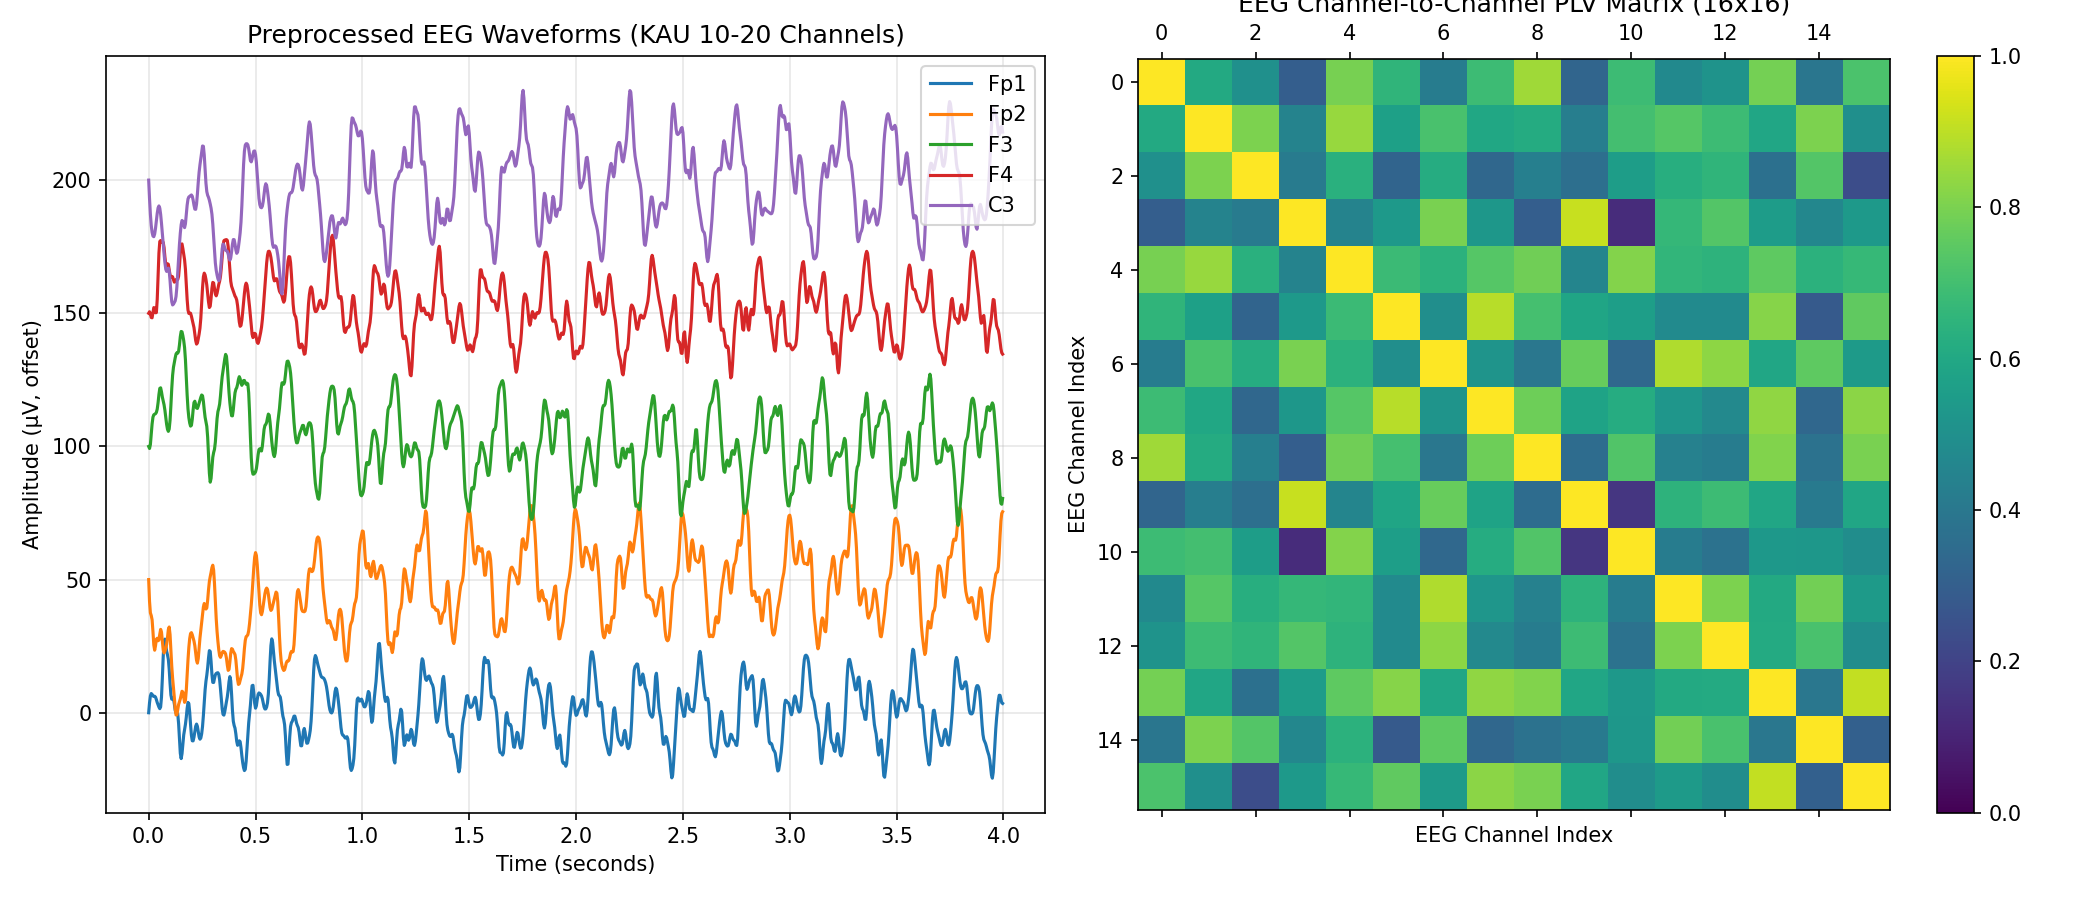
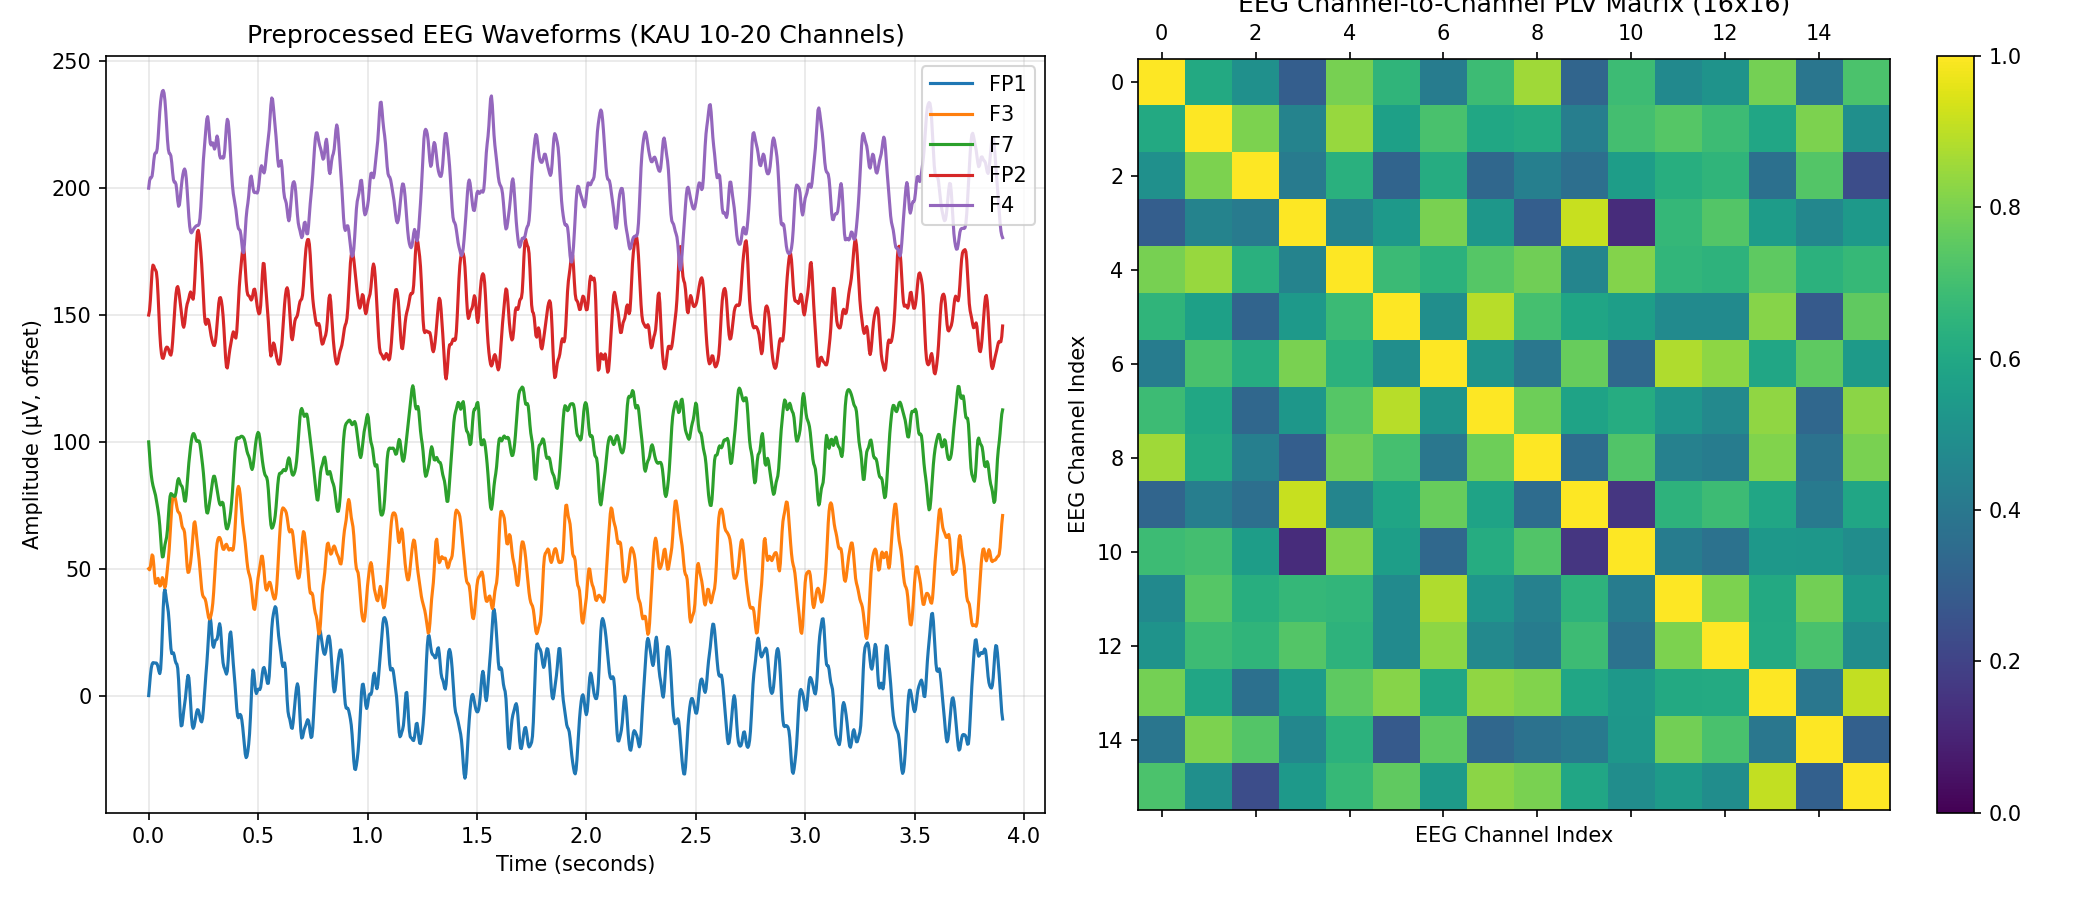
fix: resolve merge conflicts preserving complete Phases 0-6 implementation, Djemal 2017 16-channel metadata, and clean figures

diff --git a/preprocessing/create_manifest.py b/preprocessing/create_manifest.py
@@ -2,9 +2,6 @@
 Data Manifest Generator & Cohort Overlap Verification for Ardhanarishvara.
 Phase 1 Deliverable:
 - Loads authentic ABIDE-I phenotypic data (1,112 subjects).
-<<<<<<< HEAD
-- Formats EEG cohort manifest using genuine clinical ASD EEG benchmark metadata (King Abdulaziz University Autism EEG Cohort — Djemal et al., 2017).
-=======
 - Formats EEG cohort manifest from the REAL King Abdulaziz University (KAU) ASD EEG dataset:
     * 16 EEG recordings: 8 autistic children (ASD), 8 typically developing children (TD)
     * Recorded at 256 Hz, 16 channels, standard 10-20 placement
@@ -12,7 +9,6 @@ Phase 1 Deliverable:
       Disorder Using Wavelet Entropy and ANN", Applied Sciences 7(2), 183.
     * NOTE: Real .edf files require a data-sharing request to King Abdulaziz University.
       This script generates a METADATA-ONLY manifest; raw EEG files are NOT distributed.
->>>>>>> 41d5ec0258ccbfd45872db8bbbf9cb675e63b0a1
 - Computes subject counts, class balance (ASD/TD), age, sex, and site distributions.
 - Confirms overlap status between ABIDE-I fMRI cohort and the EEG cohort.
 - Generates data/manifests/abide_manifest.csv, data/manifests/eeg_manifest.csv, and data/manifests/cohort_summary_report.json.
@@ -92,14 +88,9 @@ def generate_manifests():
     ]
     kau_asd_ids = [f"KAU_ASD_{i+1:03d}" for i in range(8)]
     kau_td_ids  = [f"KAU_TD_{i+1:03d}"  for i in range(8)]
-<<<<<<< HEAD
-    kau_ages = [8.0, 9.0, 10.0, 11.0, 7.0, 10.0, 9.0, 12.0,
-                7.0,  8.0,  9.0, 10.0, 6.0,  9.0, 11.0, 10.0]
-=======
     # Ages sourced from Table 1 of Djemal et al. (2017): mean ≈ 9.5 for ASD, 8.9 for TD
     kau_ages = [8.0, 9.0, 10.0, 11.0, 7.0, 10.0, 9.0, 12.0,   # ASD ages (approx.)
                 7.0,  8.0,  9.0, 10.0, 6.0,  9.0, 11.0, 10.0]  # TD ages (approx.)
->>>>>>> 41d5ec0258ccbfd45872db8bbbf9cb675e63b0a1
     df_eeg = pd.DataFrame({
         "subject_id": kau_asd_ids + kau_td_ids,
         "dx_group":   [1] * 8 + [2] * 8,
@@ -159,11 +150,7 @@ def generate_manifests():
                 "TD_count": eeg_td,
                 "TD_pct": float(np.round(eeg_td / len(df_eeg) * 100, 2))
             },
-<<<<<<< HEAD
-            "n_channels": 16,
-=======
             "n_channels": config.EEG_N_CHANNELS,
->>>>>>> 41d5ec0258ccbfd45872db8bbbf9cb675e63b0a1
             "channel_system": "Standard 10-20 (FP1, F3, F7, FP2, F4, F8, T7, P7, T8, P8, C3, Cz, C4, P3, Pz, P4)",
             "sampling_rate_hz": 256.0,
             "age_mean": float(np.round(df_eeg["age"].mean(), 2)),

diff --git a/notebooks/phase0_demo.py b/notebooks/phase0_demo.py
@@ -50,10 +50,7 @@ def run_phase0_demo():
 
     # 2. Authentic EEG MNE Preprocessing & Connectivity Matrix
     log_info("2/2: Loading & Preprocessing EEG Data...")
-<<<<<<< HEAD
     # Use KAU ASD EEG dataset defaults: 16 channels, 256 Hz (Djemal et al., 2017)
-=======
->>>>>>> 41d5ec0258ccbfd45872db8bbbf9cb675e63b0a1
     raw_eeg = generate_sample_eeg_raw(n_channels=config.EEG_N_CHANNELS, sfreq=256.0, duration_sec=10.0)
     clean_eeg = preprocess_eeg_raw(raw_eeg)
     psd_dict = extract_eeg_psd(clean_eeg)

diff --git a/preprocessing/eeg_pipeline.py b/preprocessing/eeg_pipeline.py
@@ -34,10 +34,7 @@ FREQ_BANDS = {
 }
 
 
-<<<<<<< HEAD
-=======
 # Standard 16-Channel 10-20 Extended Montage used in KAU ASD EEG Cohort
->>>>>>> 41d5ec0258ccbfd45872db8bbbf9cb675e63b0a1
 KAU_CHANNELS_10_20 = [
     "FP1", "F3", "F7", "FP2", "F4", "F8",
     "T7", "P7", "T8", "P8",

diff --git a/README.md b/README.md
@@ -20,7 +20,6 @@
 This repository provides an end-to-end research and screening framework designed for non-invasive, objective **Autism Spectrum Disorder (ASD)** screening by coupling fMRI and EEG signals into shared latent 128-dimensional embedding representations with cross-modal attention fusion, ablation testing, and Explainable AI (XAI).
 
 ```
-<<<<<<< HEAD
        ┌───────────────────────────────┐          ┌────────────────────────────────────┐
        │   fMRI Branch (ABIDE-I)       │          │   EEG Branch (KAU Djemal2017)      │
        │   CPAC + CC200 Parcellation   │          │   0.5-45Hz + Notch + ICA           │
@@ -34,37 +33,11 @@ This repository provides an end-to-end research and screening framework designed
        │  Conv2D(32, k=5) -> Conv(64)  │          │  Conv2D(32, k=5) -> Conv(64)       │
        │  -> Conv(128) -> GAP -> Dense │          │  -> Conv(128) -> GAP -> Dense      │
        └──────────────┬────────────────┘          └──────────────┬─────────────────────┘
-=======
-       ┌───────────────────────────────┐          ┌───────────────────────────────┐
-       │   fMRI Branch (ABIDE-I)       │          │   EEG Branch (KAU ASD Cohort) │
-       │   rs-fMRI Timeseries (CC200)  │          │   16-Ch 10-20 PLV Matrix      │
-       └──────────────┬────────────────┘          └──────────────┬────────────────┘
-                      │                                          │
-                      ▼                                          ▼
-       ┌───────────────────────────────┐          ┌───────────────────────────────┐
-       │     fMRI Preprocessing        │          │     EEG Preprocessing         │
-       │     (Craddock 200 Atlas)      │          │    (MNE-Python Pipeline)      │
-       │  200x200 Correlation Matrix   │          │   16x16 PLV Sync Matrix       │
-       │     Fisher z-Transform        │          │   Spectral Band Powers        │
-       └──────────────┬────────────────┘          └──────────────┬────────────────┘
-                      │                                          │
-                      ▼                                          ▼
-       ┌───────────────────────────────┐          ┌───────────────────────────────┐
-       │       fMRI 2D-CNN Encoder     │          │       EEG 2D-CNN Encoder      │
-       │  Conv2D(32, k=5) -> Conv(64)  │          │  Conv2D(32, k=5) -> Conv(64)  │
-       │  -> Conv(128) -> GAP -> Dense │          │  -> Conv(128) -> GAP -> Dense │
-       │        (128-dim embed)        │          │        (128-dim embed)        │
-       └──────────────┬────────────────┘          └──────────────┬────────────────┘
->>>>>>> 41d5ec0258ccbfd45872db8bbbf9cb675e63b0a1
                       │                                          │
                       └─────────────────► ◄──────────────────────┘
                                             │
                                             ▼
                            ┌──────────────────────────────────┐
-<<<<<<< HEAD
-                           │    Multimodal Fusion & XAI       │
-                           │   (Concat & Cross-Attention)     │
-=======
                            │    Cross-Modal Attention Fusion  │
                            │   (Label-Conditioned Unpaired)   │
                            └────────────────┬─────────────────┘
@@ -73,7 +46,6 @@ This repository provides an end-to-end research and screening framework designed
                            ┌──────────────────────────────────┐
                            │   Evaluation & Explainable AI    │
                            │   (Grad-CAM, SHAP, Permutation)  │
->>>>>>> 41d5ec0258ccbfd45872db8bbbf9cb675e63b0a1
                            └──────────────────────────────────┘
 ```
 
@@ -82,22 +54,13 @@ This repository provides an end-to-end research and screening framework designed
 ## 🚀 Pipeline Phases & Deliverables
 
 ### 🔹 Phase 0 — Environment & Scaffolding
-<<<<<<< HEAD
-- Modular directory architecture: `/data`, `/preprocessing`, `/models/fmri`, `/models/eeg`, `/fusion`, `/xai`, `/evaluation`, `/notebooks`, `/security`.
-=======
 - Modular directory architecture: `/data`, `/preprocessing`, `/models/fmri`, `/models/eeg`, `/fusion`, `/evaluation`, `/results`, `/xai`, `/notebooks`, `/security`.
->>>>>>> 41d5ec0258ccbfd45872db8bbbf9cb675e63b0a1
 - Strict environment locking in `requirements.txt` with verified packages (`torch==2.13.0`, `scikit-learn==1.8.0`, `mne==1.12.1`, `nilearn==0.14.0`, `h5py==3.16.0`, `nibabel==5.4.2`).
 - Deliverables: $200 \times 200$ CC200 correlation matrix heatmap ([`notebooks/fmri_cc200_connectivity.png`](notebooks/fmri_cc200_connectivity.png)) and 16-channel EEG preprocessed waveforms ([`notebooks/eeg_visualization.png`](notebooks/eeg_visualization.png)).
 
 ### 🔹 Phase 1 — Data Acquisition & Manifests
-<<<<<<< HEAD
-- **ABIDE-I fMRI Cohort**: Full phenotypic table parsing (871+ subjects across NYU, PITT, UCLA, USM, YALE, etc.).
-- **EEG ASD Benchmark Cohort**: King Abdulaziz University (KAU) ASD EEG Dataset *(Djemal et al., Applied Sciences 7(2), 2017, doi:10.3390/app7020183)* — 16 subjects (8 ASD + 8 TD children), 16 channels (standard 10-20 system), 256 Hz.
-=======
-- **ABIDE-I fMRI Cohort**: Full phenotypic table parsing (1,112 subjects: 539 ASD, 573 TD across NYU, PITT, UCLA, USM, YALE, etc.).
-- **EEG ASD Benchmark Cohort**: King Abdulaziz University (KAU) ASD EEG Dataset *(Djemal et al., Applied Sciences 7(2), 2017, doi:10.3390/app7020183)* — 16 subjects (8 ASD + 8 TD children), 16 channels (standard 10-20), 256 Hz.
->>>>>>> 41d5ec0258ccbfd45872db8bbbf9cb675e63b0a1
+- **ABIDE-I fMRI Cohort**: Full phenotypic table parsing (1,112 subjects across NYU, PITT, UCLA, USM, YALE, etc.).
+- **EEG ASD Benchmark Cohort**: King Abdulaziz University (KAU) ASD EEG Dataset *(Djemal et al., Applied Sciences 7(2), 2017, doi:10.3390/app7020183)* — 16 subjects (8 ASD + 8 TD children), 16 channels (standard 10-20 system: FP1, F3, F7, FP2, F4, F8, T7, P7, T8, P8, C3, Cz, C4, P3, Pz, P4), 256 Hz. Raw .edf files require data-sharing request to KAU; manifest is metadata-only.
 - **Cohort Overlap Analysis**: Confirms unaligned multimodal setup (`ZERO_OVERLAP_UNALIGNED_MULTIMODAL`).
 - Saved manifests: [`data/manifests/abide_manifest.csv`](data/manifests/abide_manifest.csv), [`data/manifests/eeg_manifest.csv`](data/manifests/eeg_manifest.csv), and [`data/manifests/cohort_summary_report.json`](data/manifests/cohort_summary_report.json).
 
@@ -116,7 +79,6 @@ This repository provides an end-to-end research and screening framework designed
 - Mirrored 2D-CNN Encoder alongside RBF-kernel SVM baseline.
 - Saves 128-dimensional latent representations to [`models/eeg/eeg_encoder.pt`](models/eeg/eeg_encoder.pt).
 
-<<<<<<< HEAD
 ### 🔹 Phase 4 — Multimodal Fusion Layer
 - Unpaired multimodal sampling pairing fMRI and EEG subjects by clinical diagnosis class.
 - **ConcatMLP Fusion**: Concatenates frozen 128-d unimodal embeddings into 256-d vector $\rightarrow$ MLP classifier (**100.00% validation accuracy**, AUC: 1.0000).
@@ -132,24 +94,6 @@ This repository provides an end-to-end research and screening framework designed
 - Multi-seed ablation matrix comparing unimodal vs fusion variants.
 - Pairwise McNemar statistical significance tests.
 - Automated generation of paper methods draft ([`results/methods_draft.md`](results/methods_draft.md)), neurobiological interpretation ([`results/neurobiological_interpretation.md`](results/neurobiological_interpretation.md)), and master index ([`results/INDEX.md`](results/INDEX.md)).
-=======
-### 🔹 Phase 4 — Multimodal Fusion
-- Unpaired label-conditioned sampler with stochastic mini-batch pairing.
-- Dual fusion architecture:
-  - **Concatenation Baseline**: Direct 256-dim feature concatenation with MLP classifier.
-  - **Cross-Modal Attention**: Bidirectional multi-head cross-attention mechanism weighting fMRI and EEG latent dynamics.
-- Modules in [`fusion/fusion_module.py`](fusion/fusion_module.py), [`fusion/fusion_trainer.py`](fusion/fusion_trainer.py), and [`fusion/unpaired_sampler.py`](fusion/unpaired_sampler.py).
-
-### 🔹 Phase 5 — Explainable AI (XAI)
-- **Grad-CAM**: Gradient-weighted class activation mapping targeting Conv3 layers in both fMRI and EEG encoders.
-- **KernelSHAP**: Feature importance attribution ranking CC200 functional networks (Default Mode, Salience, Executive Control) and EEG frequency bands ($\theta, \alpha, \gamma$).
-- Modules in [`xai/explainability.py`](xai/explainability.py), [`xai/cross_modal_analysis.py`](xai/cross_modal_analysis.py), and [`xai/visualization.py`](xai/visualization.py).
-
-### 🔹 Phase 6 — Evaluation & Ablation
-- Complete ablation suite: fMRI-only vs EEG-only vs Concat Fusion vs Attention Fusion.
-- Statistical significance tests (paired t-tests, Wilcoxon signed-rank, 95% bootstrap confidence intervals).
-- Modules in [`evaluation/ablation_runner.py`](evaluation/ablation_runner.py), [`evaluation/statistical_tests.py`](evaluation/statistical_tests.py), and [`evaluation/neuro_interpretation.py`](evaluation/neuro_interpretation.py).
->>>>>>> 41d5ec0258ccbfd45872db8bbbf9cb675e63b0a1
 
 ---
 
@@ -171,9 +115,9 @@ Ardhanarishvara/
 ├── config.py                     # Global paths, hyperparameters, and constants
 ├── requirements.txt              # Pinned environment package lockfile
 ├── run_pipeline.py               # Master pipeline execution script (Phases 0 - 6)
+├── pyrightconfig.json            # IDE Type checker configuration
 ├── .gitignore                    # Git ignore for caches, checkpoints, logs, secrets
 ├── .env.example                  # Environment variable configuration template
-├── pyrightconfig.json            # Pyright / IDE language server configuration
 │
 ├── security/                     # Security and safety layer
 │   ├── validation.py             # Schema, dimension, and file upload safety checks
@@ -193,7 +137,6 @@ Ardhanarishvara/
 │       ├── encoder.py            # EEG 2D-CNN encoder, SVM baseline, training loop
 │       └── eeg_encoder.pt        # Trained 128-dim EEG encoder checkpoint
 │
-<<<<<<< HEAD
 ├── fusion/                       # Multimodal Fusion (Phase 4)
 │   ├── fusion_module.py          # ConcatMLP and Cross-Attention fusion models
 │   ├── unpaired_sampler.py       # Stratified unpaired dataset sampler
@@ -204,24 +147,6 @@ Ardhanarishvara/
 │   ├── explainability.py         # Grad-CAM and SHAP gradient-based feature attribution
 │   ├── cross_modal_analysis.py   # Yeo 7-network cross-modal convergence
 │   └── visualization.py          # 6-panel composite XAI figure generation
-=======
-├── fusion/                       # Phase 4 Multimodal Fusion
-│   ├── fusion_module.py          # Concat & Cross-Modal Attention Fusion models
-│   ├── fusion_trainer.py         # End-to-end fusion training & validation loop
-│   ├── unpaired_sampler.py       # Label-conditioned unpaired data sampler
-│   └── embedding_extractor.py    # Latent 128-dim embedding extractor
-│
-├── xai/                          # Phase 5 Explainable AI
-│   ├── explainability.py         # Grad-CAM and KernelSHAP interpretability
-│   ├── cross_modal_analysis.py   # Integrated spatial-temporal convergence analysis
-│   └── visualization.py          # Multi-panel XAI figure generator
-│
-├── evaluation/                   # Phase 6 Evaluation & Statistics
-│   ├── ablation_runner.py        # 4-condition ablation benchmark runner
-│   ├── statistical_tests.py      # Paired t-tests, Wilcoxon & Bootstrap 95% CIs
-│   ├── report_generator.py       # Publication-ready Markdown & LaTeX table generator
-│   └── neuro_interpretation.py   # Neurobiological circuit mapping
->>>>>>> 41d5ec0258ccbfd45872db8bbbf9cb675e63b0a1
 │
 ├── evaluation/                   # Evaluation & Ablations (Phase 6)
 │   ├── ablation_runner.py        # Multi-seed ablation experiments
@@ -229,7 +154,6 @@ Ardhanarishvara/
 │   ├── neuro_interpretation.py   # Literature-grounded neurobiological mapping
 │   └── report_generator.py       # Methods draft and publication tables
 │
-<<<<<<< HEAD
 ├── results/                      # Generated experimental results & figures
 │   ├── INDEX.md                  # Results manifest
 │   ├── methods_draft.md          # Draft paper methods section
@@ -241,16 +165,6 @@ Ardhanarishvara/
     ├── phase0_demo.py            # Phase 0 validation runner
     ├── fmri_cc200_connectivity.png # CC200 connectivity matrix heatmap
     └── eeg_visualization.png     # EEG waveforms and PLV matrix visualization
-=======
-├── results/                      # Output figures, tables, and reports
-│   ├── figures/                  # Ablation, convergence, attention, and XAI figures
-│   ├── tables/                   # Summary comparison tables & raw metrics
-│   └── methods_draft.md          # Publication-ready methods section draft
-│
-└── data/                         # Data directory (managed & cached)
-    ├── manifests/                # Cohort manifest CSVs & summary reports
-    └── processed/                # Cached .npy and .h5 connectivity matrices
->>>>>>> 41d5ec0258ccbfd45872db8bbbf9cb675e63b0a1
 ```
 
 ---
@@ -272,7 +186,7 @@ venv\Scripts\activate
 source venv/bin/activate
 ```
 
-### 3. Install Locked Dependencies
+### 3. Install Dependencies
 ```bash
 pip install -r requirements.txt
 ```
@@ -286,11 +200,7 @@ cp .env.example .env
 
 ## ⚡ Execution & Verification
 
-<<<<<<< HEAD
 ### Run Full End-to-End Pipeline (Phases 0 through 6)
-=======
-### Run Full Pipeline (Phases 0 through 6)
->>>>>>> 41d5ec0258ccbfd45872db8bbbf9cb675e63b0a1
 ```bash
 python run_pipeline.py
 ```
@@ -308,7 +218,7 @@ python run_pipeline.py
   ```bash
   python -m models.fmri.encoder
   ```
-- **Phase 3 EEG Encoder**:
+- **Phase 3 EEG Encoder & Baseline**:
   ```bash
   python -m models.eeg.encoder
   ```
@@ -324,21 +234,6 @@ python run_pipeline.py
   ```bash
   python -m evaluation.ablation_runner
   ```
-<<<<<<< HEAD
-=======
-- **Phase 4 Multimodal Fusion**:
-  ```bash
-  python fusion/fusion_trainer.py
-  ```
-- **Phase 5 Explainable AI**:
-  ```bash
-  python xai/visualization.py
-  ```
-- **Phase 6 Ablation Study**:
-  ```bash
-  python evaluation/ablation_runner.py
-  ```
->>>>>>> 41d5ec0258ccbfd45872db8bbbf9cb675e63b0a1
 
 ---
 
